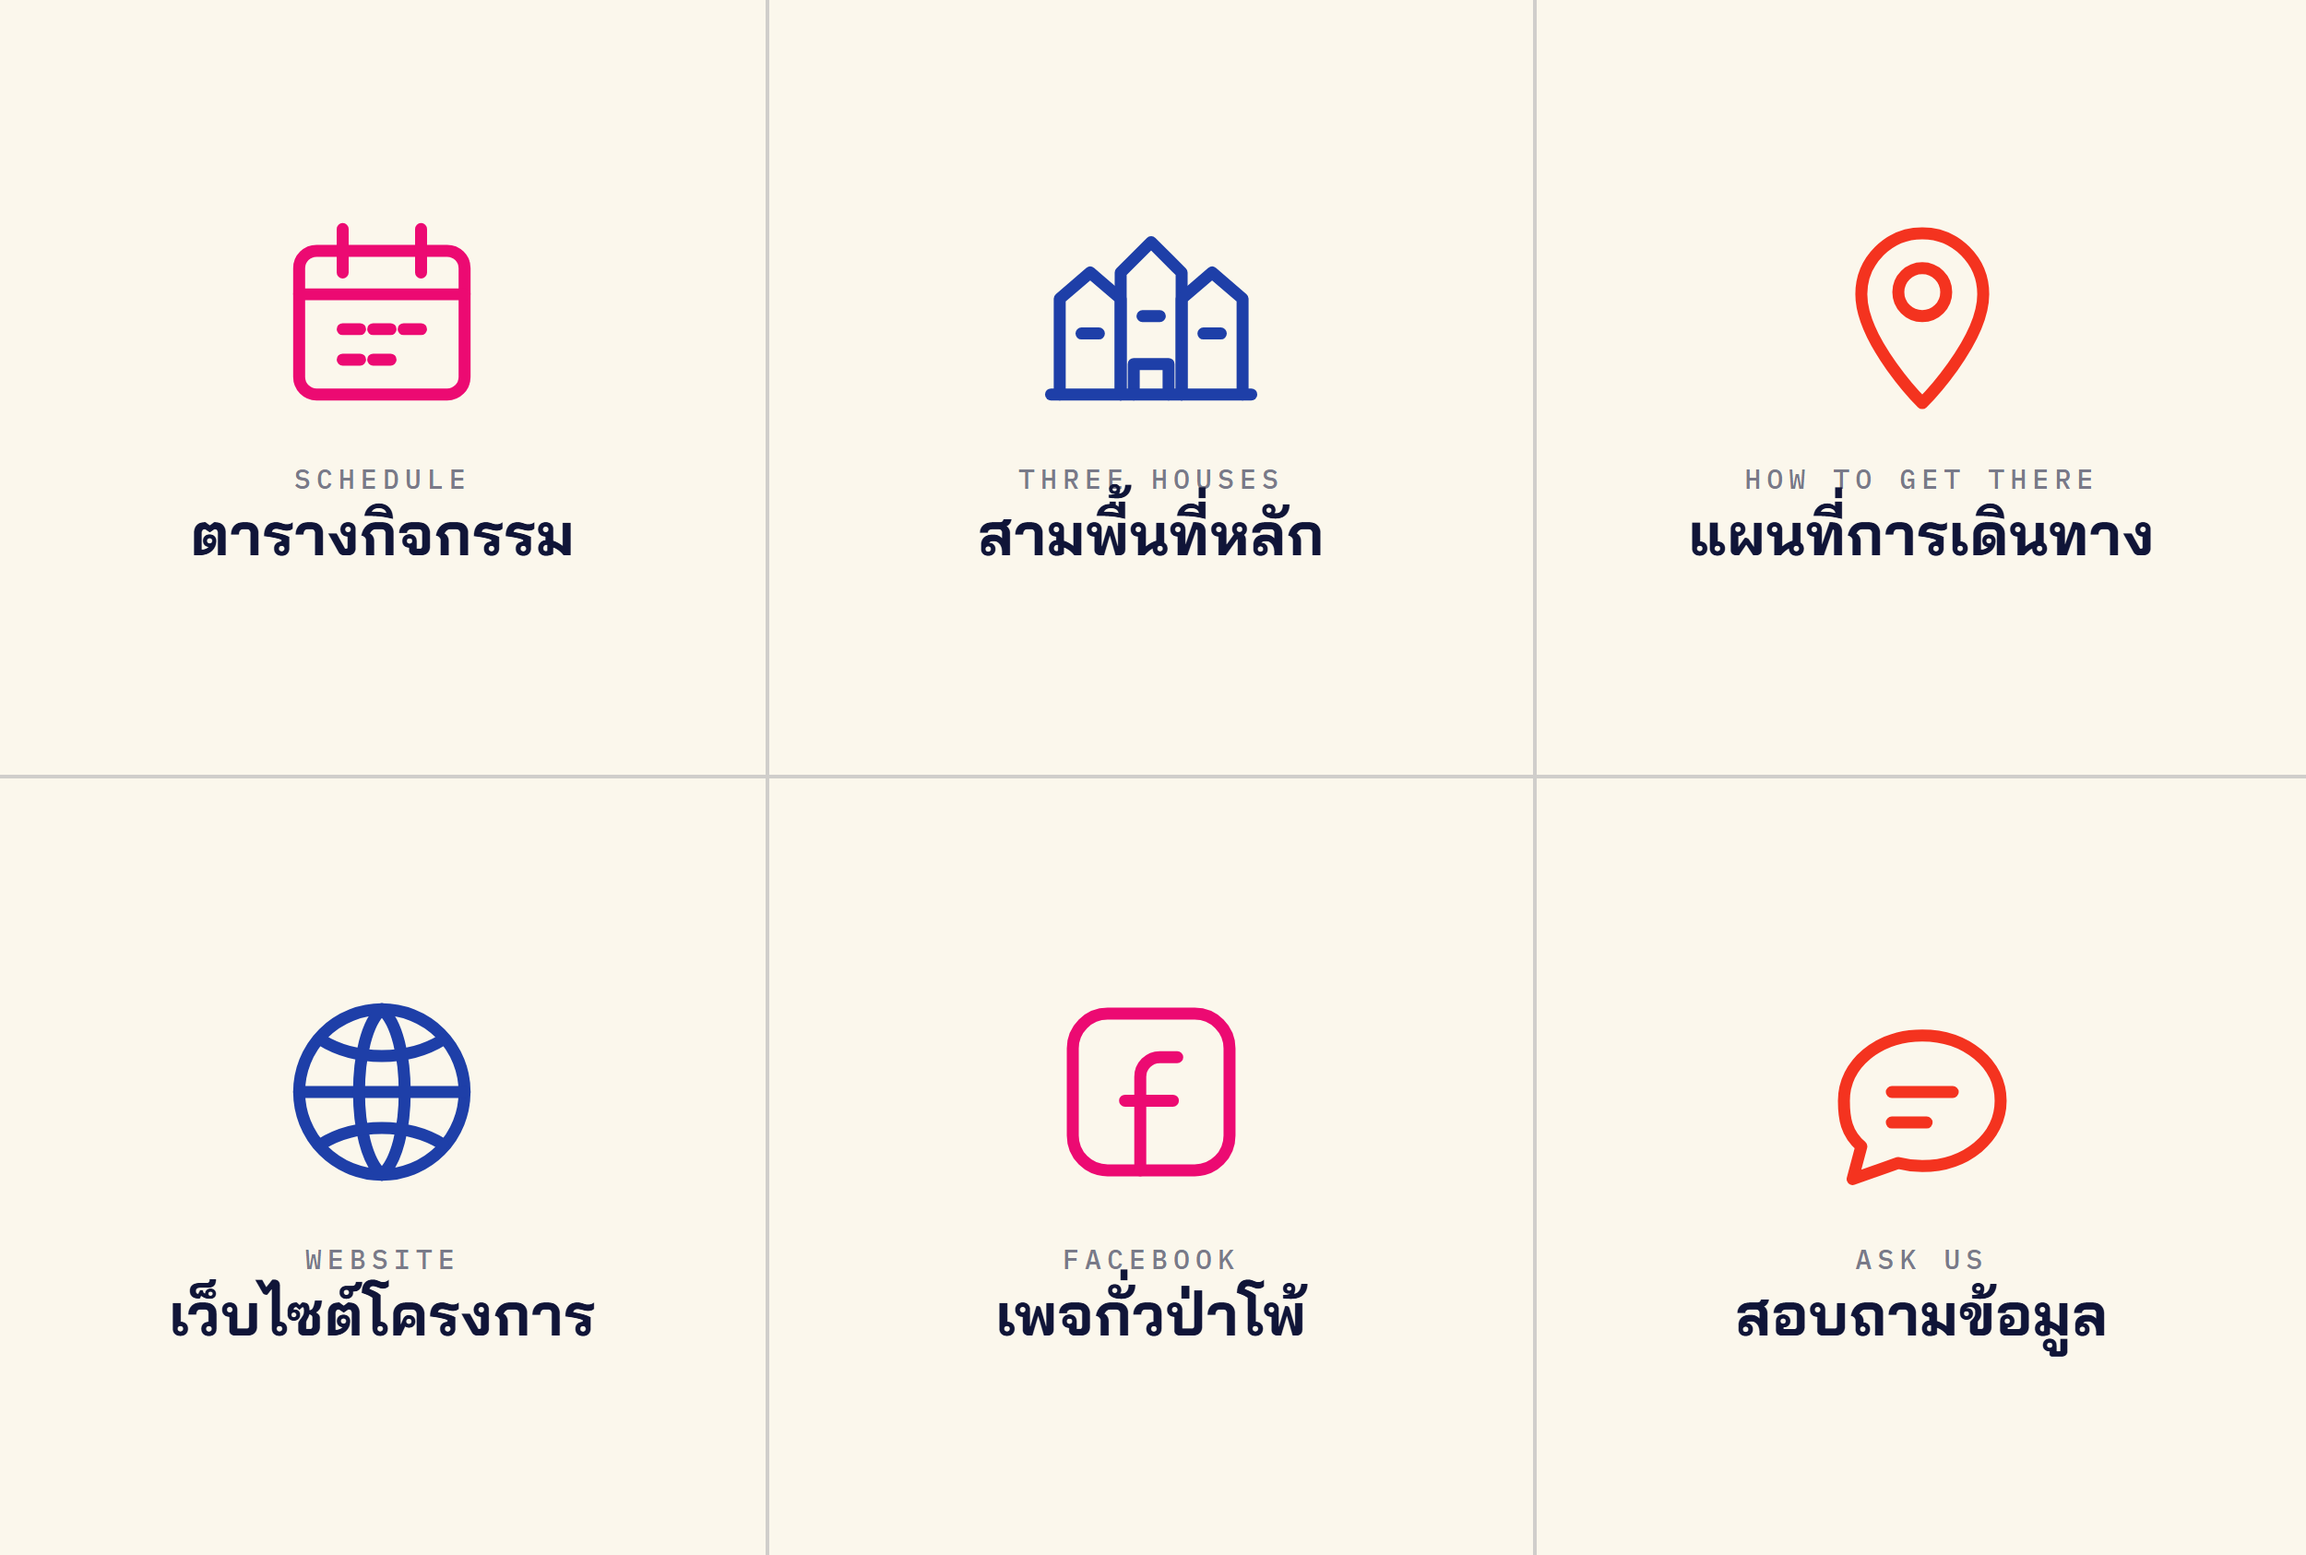
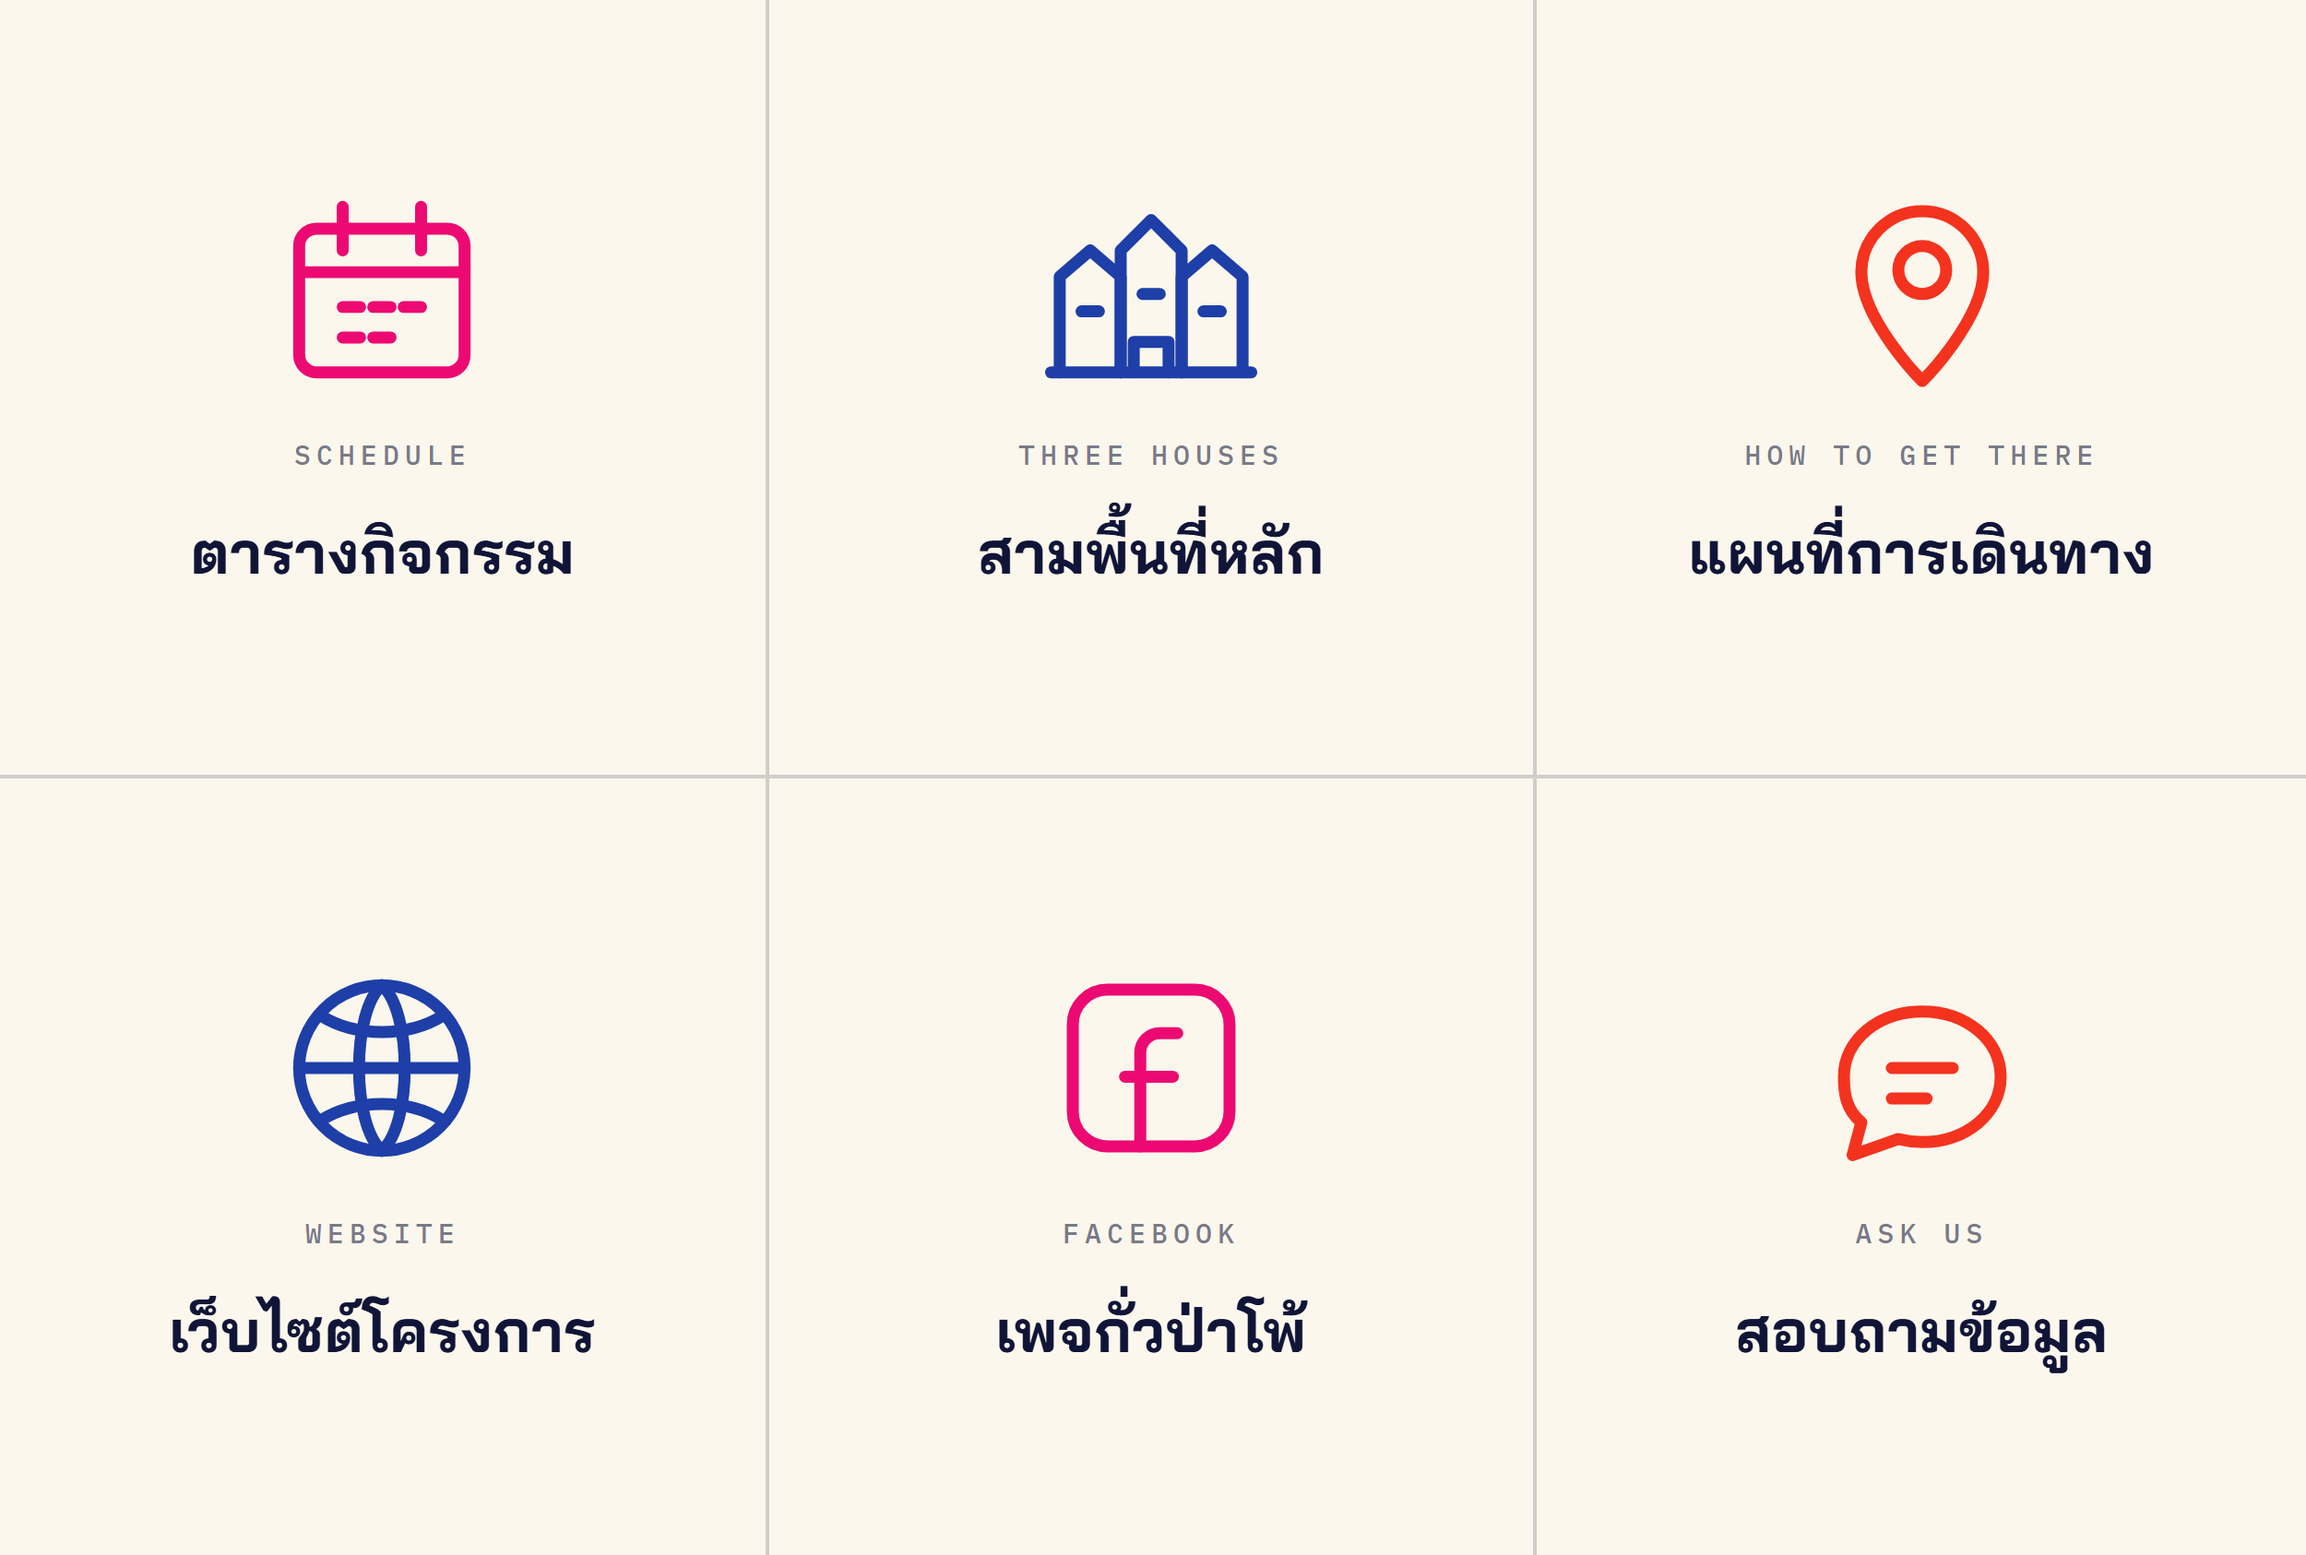
fix(richmenu): เว้นระยะบรรทัด EN กับไทย · สระ/วรรณยุกต์บนไม่ทับแล้ว

diff --git a/richmenu/_base.css b/richmenu/_base.css
@@ -15,8 +15,9 @@ body{
 .en{
   font-family:'IBM Plex Mono',ui-monospace,monospace;font-weight:500;
   font-size:15px;letter-spacing:.2em;text-transform:uppercase;
+  line-height:1.2;margin-bottom:20px;   /* เผื่อที่ให้สระ/วรรณยุกต์บนของบรรทัดไทย */
 }
 .th{
   font-family:'Bai Jamjuree','IBM Plex Sans Thai',sans-serif;font-weight:700;
-  font-size:34px;line-height:1.25;letter-spacing:.01em;
+  font-size:34px;line-height:1.45;letter-spacing:.01em;
 }
